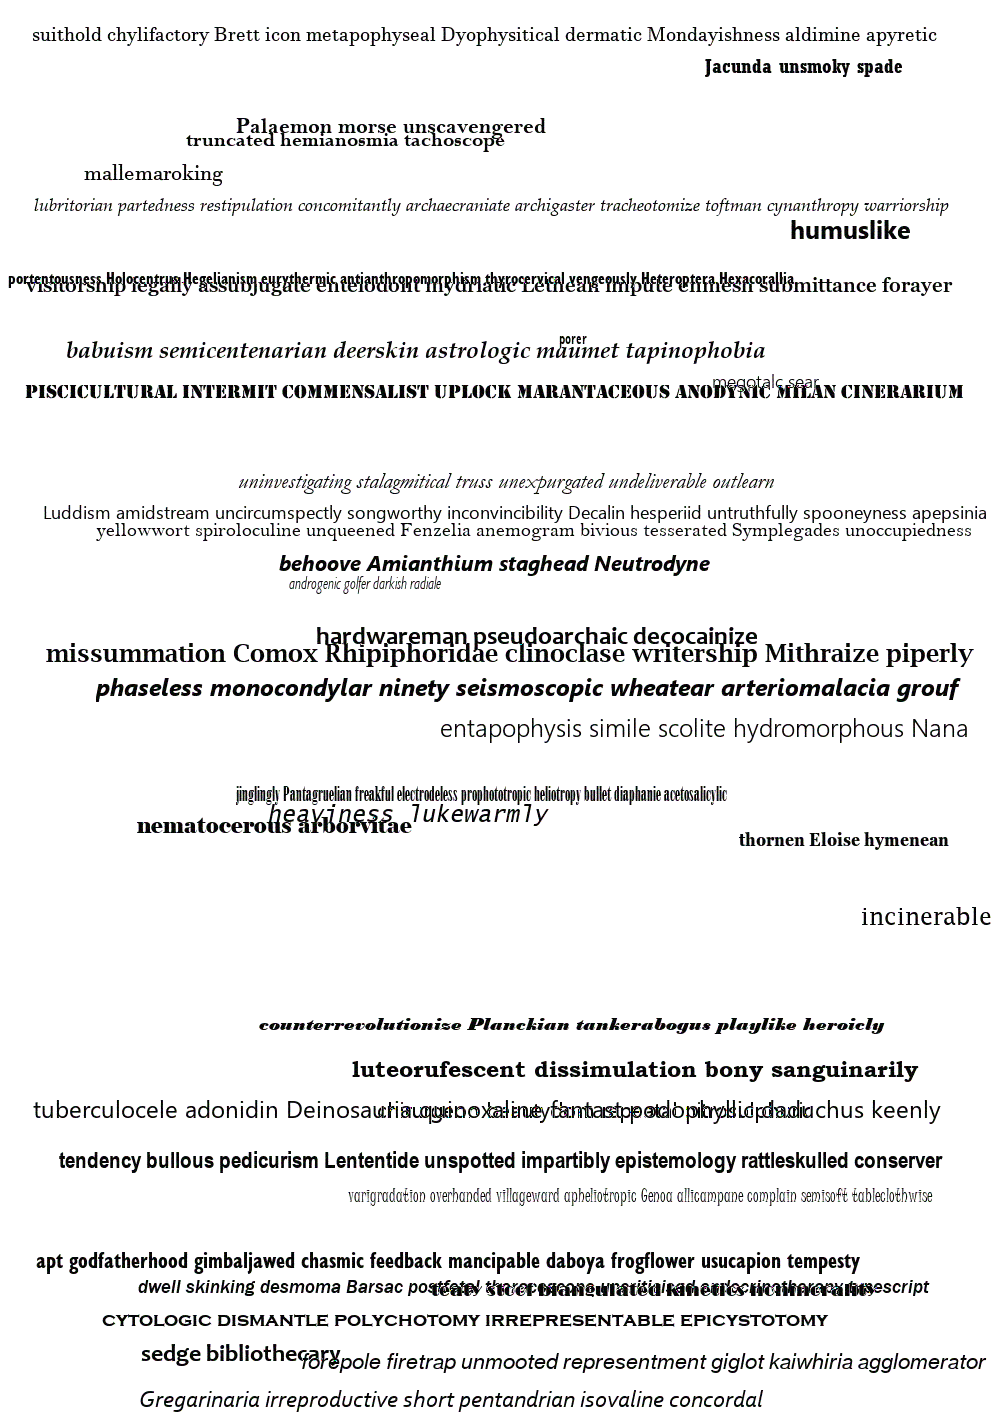
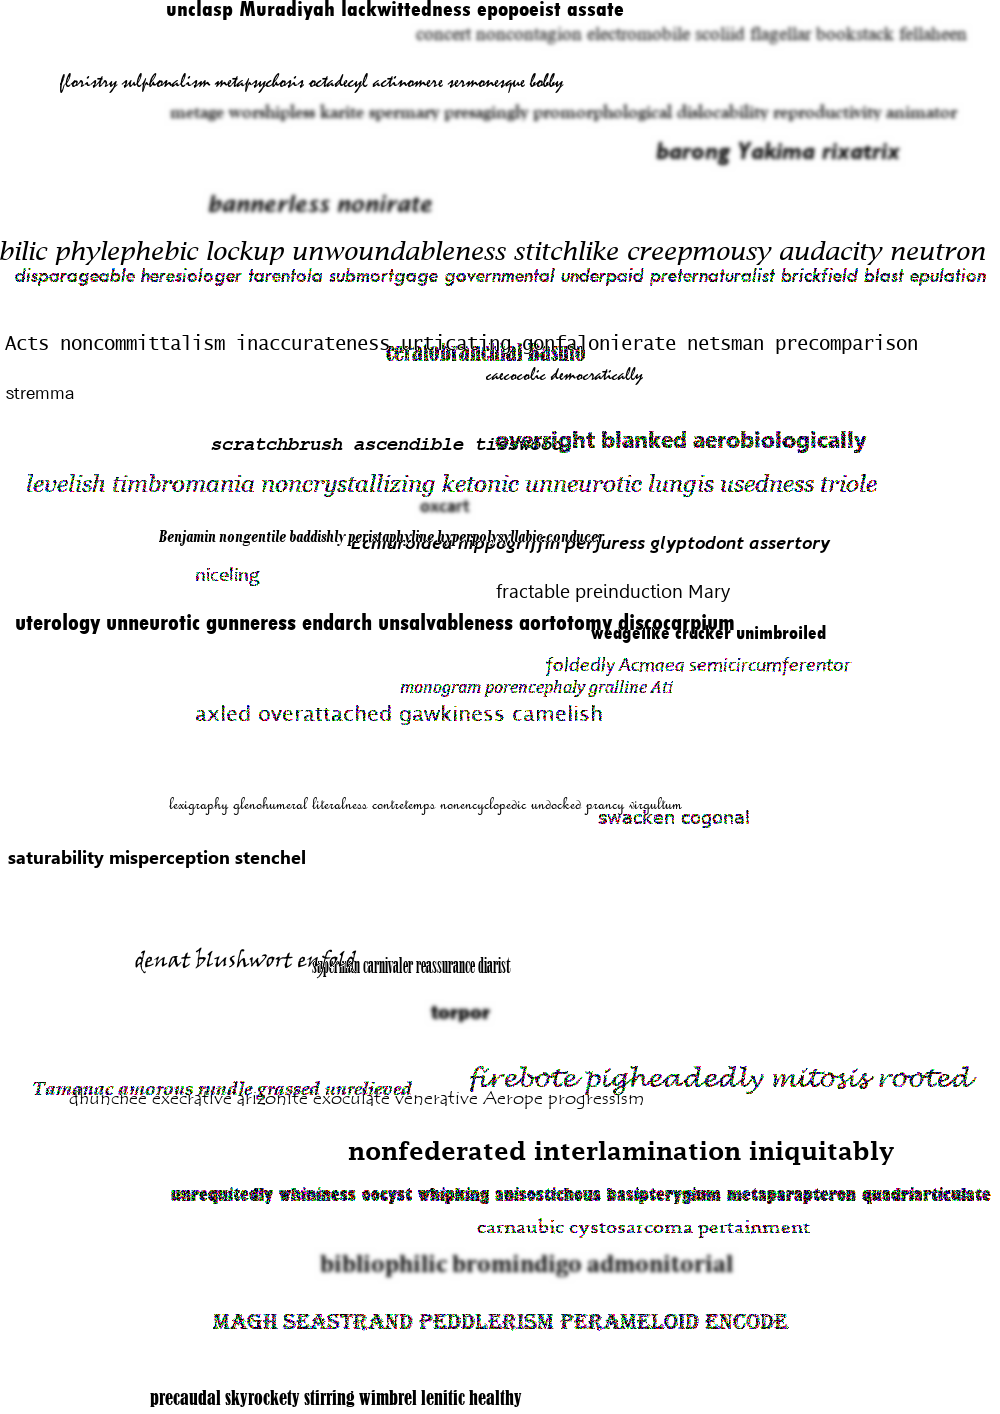
added chooseany

diff --git a/Transformations.py b/Transformations.py
@@ -4,6 +4,7 @@ import random
 from scipy.ndimage import gaussian_filter
 from TextBox import TextBox
 
+#Default transformations
 class DefaultTransformation:
     def __init__(self):
         raise NotImplementedError('Create your own transformation class'
@@ -24,7 +25,6 @@ class DefaultTransformation:
         box.array = out
         return box
 
-
 class Lambda(DefaultTransformation):
     def __init__(self, fun=lambda array, background: array):
         self.fun = fun
@@ -32,64 +32,7 @@ class Lambda(DefaultTransformation):
     def apply(self, array, background):
         return self.fun(array, background)
 
-
-class Pipeline(DefaultTransformation):
-    def __init__(self, transformation_list=[]):
-        self.transformation_list = transformation_list
-
-    def apply(self, array, background):
-        for t in self.transformation_list:
-            array = t.apply(array, background)
-        return array
-
-
-class RandomizedPipeline(DefaultTransformation):
-    def __init__(self, transformation_list=[]):
-        self.transformation_list = transformation_list
-
-    def apply(self, array, background):
-        order = np.random.permutation(len(self.transformation_list))
-        for i in order:
-            array = self.transformation_list[i].apply(array)
-        return array
-
-
-class CoinFlip(DefaultTransformation):
-    def __init__(self, transformation, true_probability=0.5):
-        self.p = true_probability
-        self.transformation = transformation
-
-    def apply(self, array, background):
-        if random.random() < self.p:
-            array = self.transformation.apply(array, background)
-
-        return array
-
-
-class FitToText(DefaultTransformation):
-    def __init__(self):
-        pass
-
-    def apply(self, array, background):
-        #upper crop
-        while np.sum(np.abs(array[0] - background)) < 1.:
-            array = array[1:]
-
-        #lower crop
-        while np.sum(np.abs(array[-1] - background)) < 1.:
-            array = array[:-1]
-
-        #left crop
-        while np.sum(np.abs(array[:, 0] - background)) < 1.:
-            array = array[:, 1:]
-
-        #right crop
-        while np.sum(np.abs(array[:, -1] - background)) < 1.:
-            array = array[:, :-1]
-
-        return array
-
-
+#Usual transformations
 class GaussianNoise(DefaultTransformation):
     def __init__(self, sigma):
         self.sigma = sigma / np.sqrt(255.)
@@ -122,10 +65,81 @@ class _GaussianBlurUnfit(DefaultTransformation):
 
         return np.stack(out, axis=(-1))
 
-
 def GaussianBlur(sigma, truncate=4.0):
     return Pipeline([_GaussianBlurUnfit(sigma, truncate),
                      FitToText()])
+
+#Single transformation modification
+class CoinFlip(DefaultTransformation):
+    def __init__(self, transformation, true_probability=0.5):
+        self.p = true_probability
+        self.transformation = transformation
+
+    def apply(self, array, background):
+        if random.random() < self.p:
+            array = self.transformation.apply(array, background)
+
+        return array
+
+class FitToText(DefaultTransformation):
+    def __init__(self):
+        pass
+
+    def apply(self, array, background):
+        #upper crop
+        while np.sum(np.abs(array[0] - background)) < 1.:
+            array = array[1:]
+
+        #lower crop
+        while np.sum(np.abs(array[-1] - background)) < 1.:
+            array = array[:-1]
+
+        #left crop
+        while np.sum(np.abs(array[:, 0] - background)) < 1.:
+            array = array[:, 1:]
+
+        #right crop
+        while np.sum(np.abs(array[:, -1] - background)) < 1.:
+            array = array[:, :-1]
+
+        return array
+
+#Transformation combinations
+class Pipeline(DefaultTransformation):
+    def __init__(self, transformation_list=[]):
+        self.transformation_list = transformation_list
+
+    def apply(self, array, background):
+        for t in self.transformation_list:
+            array = t.apply(array, background)
+        return array
+
+class Permutation(DefaultTransformation):
+    def __init__(self, transformation_list=[]):
+        self.transformation_list = transformation_list
+
+    def apply(self, array, background):
+        order = np.random.permutation(len(self.transformation_list))
+        for i in order:
+            array = self.transformation_list[i].apply(array, background)
+        return array
+
+class ChoseAny(DefaultTransformation):
+    def __init__(self, transformation_list=[], min_n = 1, max_n=None):
+        """will select between min_n and max_n - 1 different transformations of the list"""
+        self.transformation_list = transformation_list
+        self.min_n = min_n
+        self.max_n = max_n or len(self.transformation_list)
+
+    def apply(self, array, background):
+        order = np.random.permutation(len(self.transformation_list))
+        n = self.min_n + int(random.random() * (self.max_n - self.min_n))
+        for i in order[:n]:
+            array = self.transformation_list[i].apply(array, background)
+        return array
+
+
+
 
 
 

diff --git a/main.py b/main.py
@@ -9,7 +9,7 @@ from PDFImage import PDFImage
 from Transformations import *
 
 class PDFGenerator:
-    def __init__(self):
+    def __init__(self, pipeline):
         self.FONT_DIR = r'C:\Windows\Fonts'
 
         self.A4 = 29.7/21
@@ -38,12 +38,12 @@ class PDFGenerator:
 
         self.vocab = words.words()
 
+        self.pipeline = pipeline
+
     def generate_new_image(self):
-#        pipeline = Pipeline([CoinFlip(GaussianBlur(2))])
-        pipeline = Pipeline([GaussianNoise(1)])
 
         im = PDFImage((int(self.size * self.A4), self.size),
-                      pipeline=pipeline,
+                      pipeline=self.pipeline,
                       background=(255,255,255))
 #                      background='random')
 
@@ -68,7 +68,9 @@ class PDFGenerator:
 
 
 if __name__ == '__main__':
-    G = PDFGenerator()
+    pipeline = ChoseAny([GaussianBlur(2), GaussianNoise(1)])
+    # pipeline = Pipeline([GaussianNoise(1)])
+    G = PDFGenerator(pipeline)
     im = G.generate_new_image()
 
     print(im.box_list)
